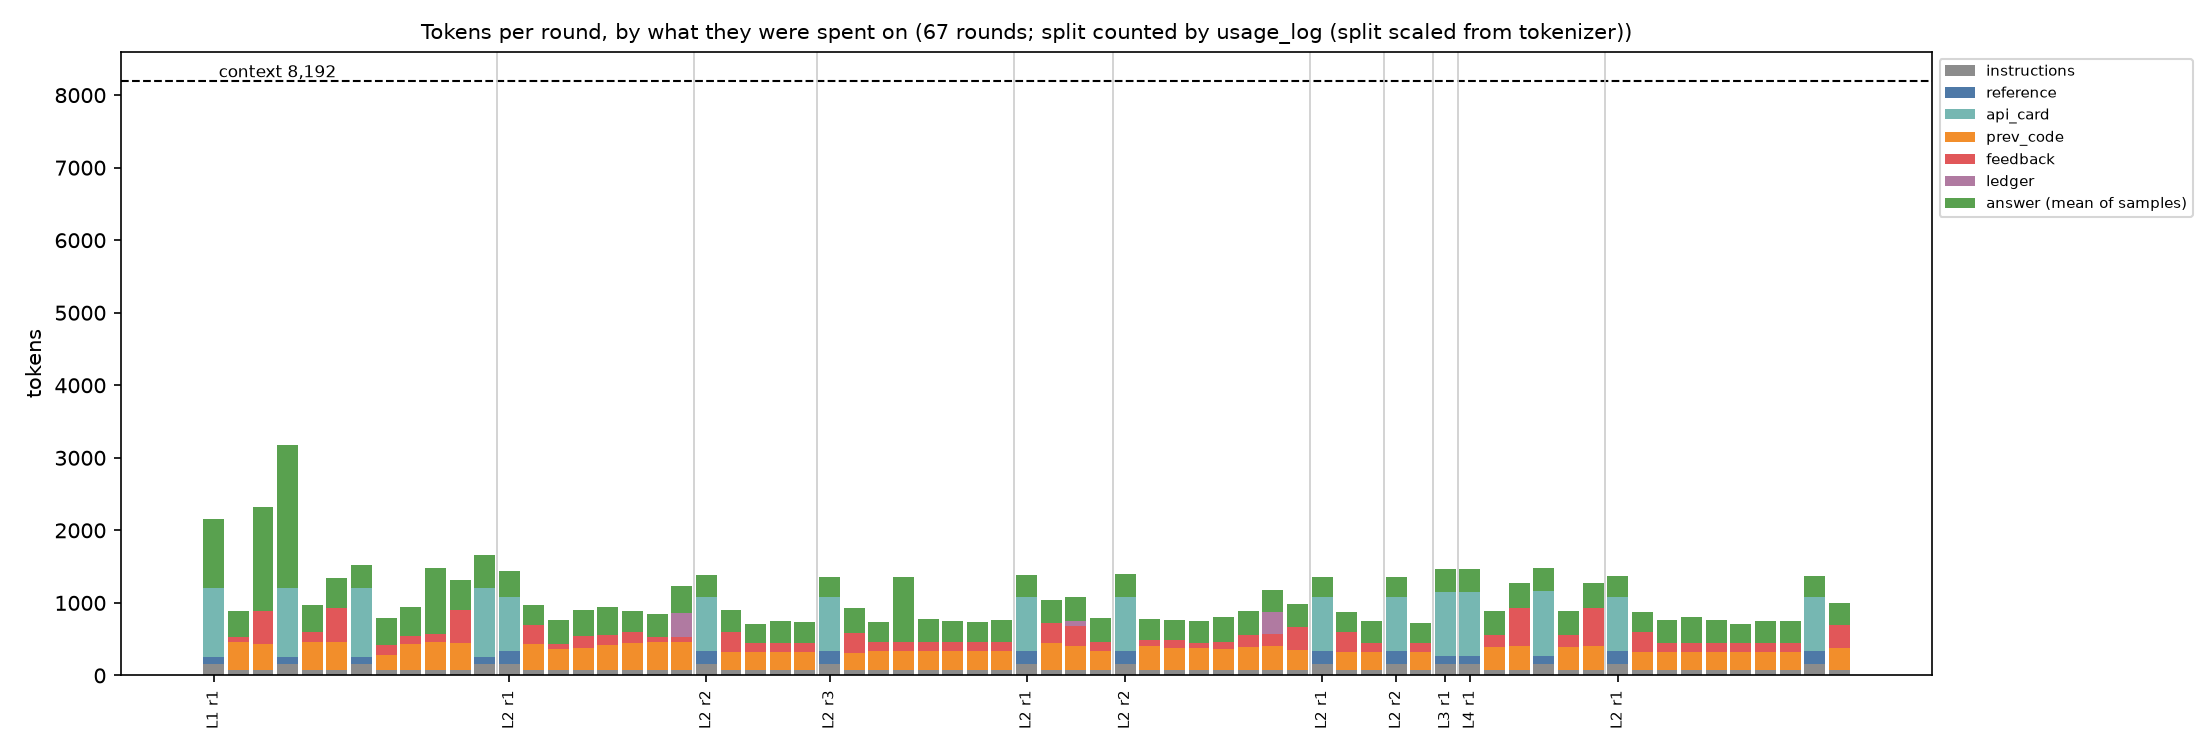
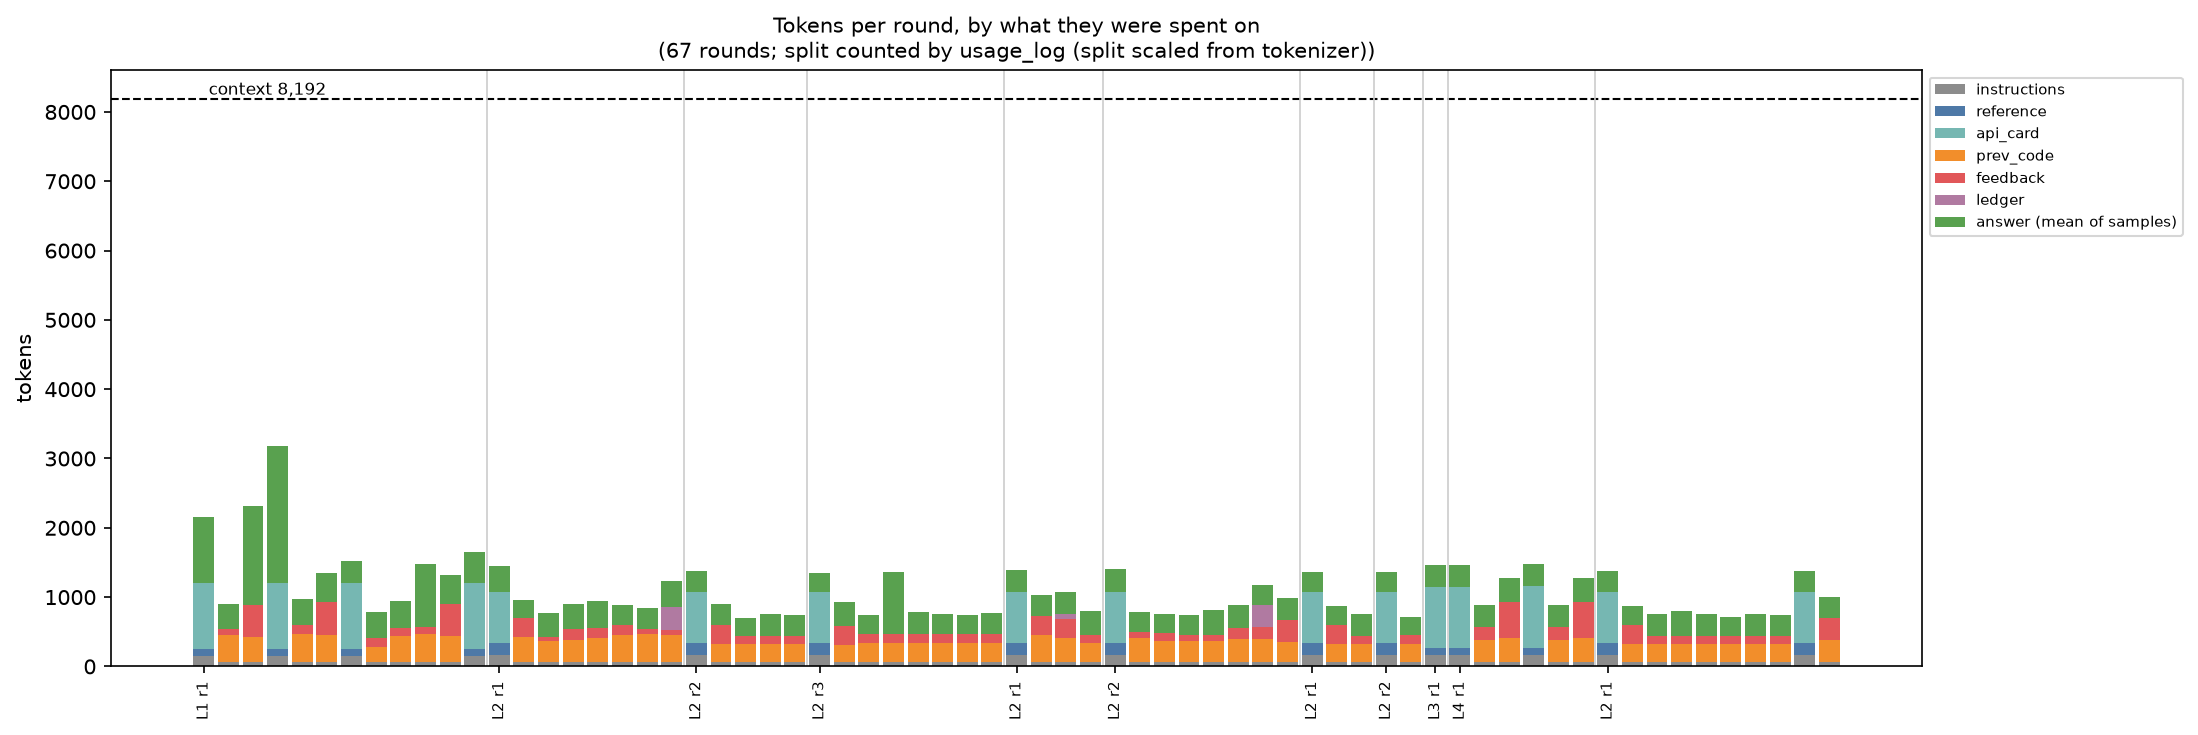
token_budget.py: title on two lines and bbox_inches="tight", so the title is no longer cut off
Layout only: no numbers or segments changed. Both charts regenerated from the same inputs their
checks.md lists (round2_v7: 20 rounds, 80/80 usage matched; final_v82: 67 rounds, 268/268); the
token_budget.csv files come out byte-identical.

diff --git a/scripts/token_budget.py b/scripts/token_budget.py
@@ -109,13 +109,13 @@ def main():
     ax.set_xticklabels([f"L{rounds[i]['level']} r{rounds[i]['run'] + 1}" for i in starts],
                        fontsize=7, rotation=90)
     ax.set_ylabel("tokens")
-    ax.set_title(f"Tokens per round, by what they were spent on ({len(rounds)} rounds; "
+    ax.set_title(f"Tokens per round, by what they were spent on\n({len(rounds)} rounds; "
                  f"split counted by {', '.join(methods)})"
                  + (f"\n{unmatched} attempt(s) not in the usage log kept chars/4 estimates"
                     if a.usage is not None and unmatched else ""), fontsize=10)
     ax.legend(fontsize=7, loc="upper left", bbox_to_anchor=(1.0, 1.0))
     fig.tight_layout()
-    fig.savefig(a.out + ".png", dpi=150)
+    fig.savefig(a.out + ".png", dpi=150, bbox_inches="tight")
     print(f"{len(rounds)} rounds ({skipped} older lines without token data skipped) -> "
           f"{a.out}.png, {a.out}.csv")
     if a.usage is not None:
